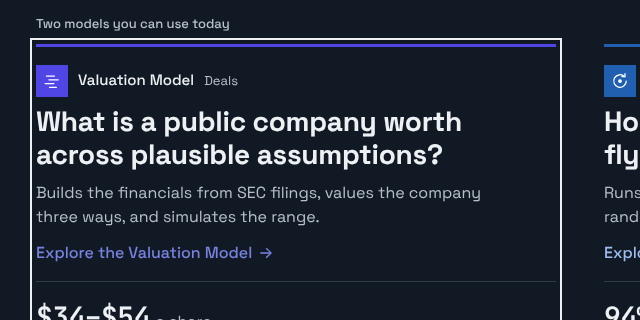
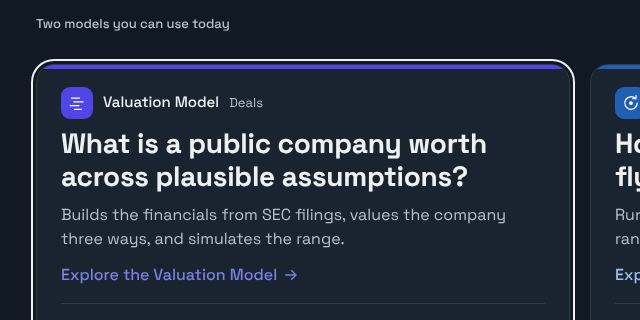
Homepage: rounded panels for the live models
Jason asked for rounded shapes instead of boxes. The two live models are
now soft panels (18px radius, 4px brand-color cap); icon tiles, chart bars,
the theme toggle, the Delta line and focus rings are rounded too. Homepage
only: the app pages keep their square frame. Screenshots refreshed.

Claude-Session: https://claude.ai/code/session_01GhsxZacVL4PUv9jVS24NXX

diff --git a/index.html b/index.html
@@ -15,7 +15,7 @@
   </script>
   <style>
     /* Homepage only. Everything here is inline in index.html, so none of it reaches the app pages, which load brand.css alone.
-       Layout (2026-11-19 redesign): question-led columns. Each live model gets one column, side by side on desktop and stacked
+       Layout (2026-11-19 redesign): question-led panels. Each live model gets one rounded panel, side by side on desktop and stacked
        on a phone: its decision question is the link, and a small example result from the model's own published JSON sits
        under it (home/previews.js).
        Planned work sits in a quieter "Next" list; Delta Readiness is a separate side-project line.
@@ -50,7 +50,7 @@
     /* ---- Live models: question-led rows ---- */
     .live { display: grid; grid-template-columns: minmax(0, 1fr) minmax(0, 1fr); gap: 0 48px; }
     .live > .label { grid-column: 1 / -1; padding-bottom: 10px; }
-    .row { position: relative; display: grid; grid-template-rows: auto 1fr; gap: 16px; padding: 18px 0 8px; border-top: 3px solid var(--brand-fill); }
+    .row { position: relative; display: grid; grid-template-rows: auto 1fr; gap: 16px; padding: 18px 0 8px; }
     @supports (grid-template-rows: subgrid) {   /* line the two previews up across the columns */
       .live { grid-template-rows: auto auto auto; }
       .row { grid-row: span 2; grid-template-rows: subgrid; }
@@ -140,10 +140,27 @@
     .site-footer b { color: var(--ink); font-weight: 500; }
     .site-footer a { color: var(--ink-secondary); display: inline-block; padding: 12px 0; }
 
+
+    /* ---- Rounded shape (2026-11-19, Jason's ask): live models as soft panels; tiles, bars, toggle and focus rings rounded.
+       The app pages keep their square frame; this stays homepage-only. ---- */
+    .live { gap: 20px; }
+    .row { padding: 22px 24px 18px; border: 1px solid var(--line); border-radius: 18px; background: var(--panel); overflow: hidden; }
+    .row::before { content: ""; position: absolute; left: 0; right: 0; top: 0; height: 4px; background: var(--brand-fill); }
+    .row:hover { border-color: var(--ink-secondary); }
+    .row:has(.row__link:focus-visible) { outline-offset: 3px; }
+    .row .brand-tile, .side__tile { border-radius: 9px; }
+    .theme-toggle { border-radius: 999px; }
+    .ff__bar, .days__bar, .key--bar { border-radius: 999px; }
+    .ff__mid, .days__mid { border-radius: 2px; }
+    .side { padding: 6px 14px 6px 8px; border: 1px solid var(--line); border-radius: 999px; }
+    .side:hover { border-color: var(--ink-secondary); }
+    a:focus-visible, button:focus-visible { border-radius: 8px; }
+    .side:focus-visible { border-radius: 999px; }
+
     @media (max-width: 860px) {
       .live { grid-template-columns: minmax(0, 1fr); grid-template-rows: none; }
       .row { grid-row: auto; grid-template-rows: auto auto; }
-      .row + .row { margin-top: 20px; }
+      .live { gap: 16px; }
       .pv { min-height: 0; }
       .next { grid-template-columns: minmax(0, 1fr); gap: 14px; }
     }
@@ -154,7 +171,8 @@
       .topbar nav { gap: 4px 12px; font-size: 0.875rem; }
       .who b { font-size: 0.9375rem; }
       .hero h1 { font-size: 2.125rem; }
-      .row { padding: 16px 0 4px; }
+      .row { padding: 18px 16px 14px; border-radius: 16px; }
+      .side { border-radius: 16px; }
       .row__what { font-size: 0.9375rem; }
       .ff__row, .ff__axis { grid-template-columns: 7.6em minmax(0, 1fr) 5em; gap: 8px; }
     }
@@ -165,7 +183,7 @@
   <header class="topbar">
     <div class="wrap">
       <a class="who" href="./">
-        <svg viewBox="0 0 64 64" aria-hidden="true"><rect x="1.5" y="1.5" width="61" height="61" fill="var(--panel)" stroke="var(--core-outline)" stroke-width="3"/><g fill="none" stroke="currentColor" stroke-width="4" stroke-linecap="round" stroke-linejoin="round" transform="translate(9.6 9.6) scale(0.7)"><path d="M32 6l22 13v26L32 58 10 45V19z"/><path d="M32 22l9 5v10l-9 5-9-5V27z"/></g></svg>
+        <svg viewBox="0 0 64 64" aria-hidden="true"><rect x="1.5" y="1.5" width="61" height="61" rx="12" fill="var(--panel)" stroke="var(--core-outline)" stroke-width="3"/><g fill="none" stroke="currentColor" stroke-width="4" stroke-linecap="round" stroke-linejoin="round" transform="translate(9.6 9.6) scale(0.7)"><path d="M32 6l22 13v26L32 58 10 45V19z"/><path d="M32 22l9 5v10l-9 5-9-5V27z"/></g></svg>
         <b>Jason C. Courtoy</b><span>Decision Models</span>
       </a>
       <nav aria-label="Profiles">

diff --git a/docs/design/2026-11-19-homepage/README.md b/docs/design/2026-11-19-homepage/README.md
@@ -29,7 +29,7 @@ How I looked: the repository at `main` (`086e103`, PR #19 merged and deployed by
 | Source Serif 4 headline vs all-sans | **All-sans, Space Grotesk.** | I rendered all three at 1280 and 390 px. The serif looks good but reads like a publication, and the apps never use it. Inter is generic. Space Grotesk's `y` and `g` already give the headline character. One line on desktop, two balanced lines on a phone ("Know the odds / before you commit."), at about 56 px and 34 px. No new font requests. |
 | "Know the odds before you commit." + one sentence in my voice | **Kept.** "I build open decision models for operations, capital allocation and deals." | It is the brand line in the first person, and it doesn't conflict with the military role. |
 | Core mark + name + quiet "Decision Models" label | **Kept.** | The label is hidden on phones so the top bar stays on one line at 390 px. |
-| Two wide panels, side by side | **Kept as the composition, without the boxes.** | Open columns with a 3 px top rule instead of bordered cards. That avoids a stack of identical boxes, and the model colors do the separating. |
+| Two wide panels, side by side | **Kept, as rounded panels** (changed 2026-11-19 at Jason's request). | The first version used open columns with a 3 px top rule. Jason asked for rounded shapes, so the live models are now soft panels (18 px radius, 4 px brand-color cap) with rounded tiles, bars, theme toggle and focus rings. Only two panels, each a different color and with its own chart, so they don't read as a stack of identical boxes. Homepage only: the app pages keep their square frame. |
 | "Live" / "Planned" badges | **Replaced by section labels.** | "Two models you can use today" and "Planned, not built yet" carry status as text. Planned items have no link, no color fill and a muted outline mark, so they can't be mistaken for tools. |
 | Questions | **Valuation reworded, TPS adapted.** | Valuation: "What is a public company worth across plausible assumptions?" It values US-listed companies from SEC filings, so "public company" sets the right expectation. TPS: "How often can the fleet fly the weekly schedule?" It reports the share of simulated weeks that meet every requirement. |
 | Chart previews | **Kept, but drawn from engine output.** | Valuation shows a football field of the weighted methods for the synthetic demo company, with the share price marked. TPS shows aircraft ready against aircraft needed, Monday to Friday, for the default synthetic preset. Both are labeled as examples, give units, and add a one-line takeaway from the model's own text. |
@@ -62,7 +62,7 @@ I tried B first as full-width rows, one per model. At 1280×800 the second model
 
 ## Limitations and follow-ups
 
-- **One-screen rule:** at 1280×800 both questions, links and example answers fit, but the TPS legend, the planned list, Delta and the footer need a short scroll (page height 1,099 px). The brand guide's 2026-10-11 rule says no scrolling. This needs your call (see BACKLOG item 4).
+- **One-screen rule:** at 1280×800 both questions, links and example answers fit, but the TPS legend, the planned list, Delta and the footer need a short scroll (page height 1,132 px). The brand guide's 2026-10-11 rule says no scrolling. This needs your call (see BACKLOG item 4).
 - **Valuation first visit:** a new visitor lands on Apple with a "Build warnings: interest not tagged…" banner above the headline. That is not a good first impression from a recruiter's click. It belongs to the valuation repo, so it is outside this pass.
 - **Brand guide drift:** the brand guide lists TPS as teal `#0F766E`, but `brand.css` ships blue `#2160B0`. Valuation indigo and TPS blue sit close together. The tiles and labels keep them apart here, but the palette is worth a look.
 - **Not tested with real visitors.** The "can a visitor tell what Jason builds and pick the right tool" test is my design judgment from the rendered page.

diff --git a/docs/BACKLOG.md b/docs/BACKLOG.md
@@ -68,7 +68,7 @@ Ranked by consequence for analytical correctness, then reviewer understanding, r
 1. **[Done: valuation PR #24 merged 2026-11-18 (end-of-year for public companies); Refresh re-run 2026-11-18 with Jason's OK: all 39 live companies on end_of_year, deployed 18:01Z] `valuation` DCF timing convention overstates value by about one year of discounting.** Default `closing_year_zero` discounts year 1 (the fiscal year in progress) with exponent 0 and the terminal value at N-1. Hand check, 5 years of FCF 100, WACC 10%, g 0: end-of-year EV 1,000 (exact perpetuity), mid-year 1,018.5, closing-year-zero 1,100. So public-company values run about +10% vs end-of-year and about +8% vs mid-year at a 10% WACC. It is disclosed on the page ("Year 1 is the undiscounted closing year"). Decision needed (Jason): keep the course convention for public companies, or default public cases to mid-year and show the difference. Acceptance: a failing example with the hand-calculated values above, then the chosen default, with the football field and sensitivity grid updated.
 2. **[Done: research PR #8 merged and deployed 2026-11-19] `research` / `valuation` engine drift.** Study 01 scored engine v0.9.0 (`34e3852`); the live model is v0.10.1. Decide whether the study page should say "scored against v0.9.0" or rerun against the current engine. Acceptance: the notebook page names the engine version and commit it scored (it shows neither today).
 3. **[Done: research PR #8 merged and deployed 2026-11-19] `research` reproducibility on the page.** The study page shows "Published October 30, 2026" but no data version, engine commit or results file link. Add a "Reproduce this number" block (JSON path, engine commit, run id 41097931174).
-4. **`hub` one-screen rule.** (2026-11-19 redesign: both live models' questions, links and example answers fit 1280×800; the planned list, Delta and footer scroll; page 1,099 px. Decision needed with that PR.) Brand rule: no scrolling at 1280×800. The page is 1,060 px tall before this sprint (the findings section pushed it over) and 1,086 px after. Decision needed: accept a short scroll for findings, or compact the card.
+4. **`hub` one-screen rule.** (2026-11-19 redesign: both live models' questions, links and example answers fit 1280×800; the planned list, Delta and footer scroll; page 1,132 px. Decision needed with that PR.) Brand rule: no scrolling at 1280×800. The page is 1,060 px tall before this sprint (the findings section pushed it over) and 1,086 px after. Decision needed: accept a short scroll for findings, or compact the card.
 5. **`research` privacy: contact email in a public workflow file.** `study.yml` has the SEC User-Agent default with a personal email. Jason to add the `SEC_USER_AGENT` secret; then remove the literal in a one-line PR.
 6. **`all` brand drift.** `brand/css/brand.css`, `build.py`, `README.md`, `example.html` and `core-mark.svg` differ between the hub and each app repo (`palette.py` matches). Rule: copies stay identical. Investigate which is newest, then sync. Delta is unaffected.
 7. **[Merged: valuation PR #25 (v0.11.1), 2026-11-19; confirm on the next scheduled run. Causes: FRED timeouts retried per company (10-26, 11-02); EDGAR SIC pages stalled (11-16)] `valuation` scheduled Refresh hits the 90-min timeout** (cancelled 10-26, 11-02, 11-16; manual runs finish in 6–12 min). Pages skipped on 11-16. Timebox 30 min: find the cause (timeout vs SEC rate limit).
